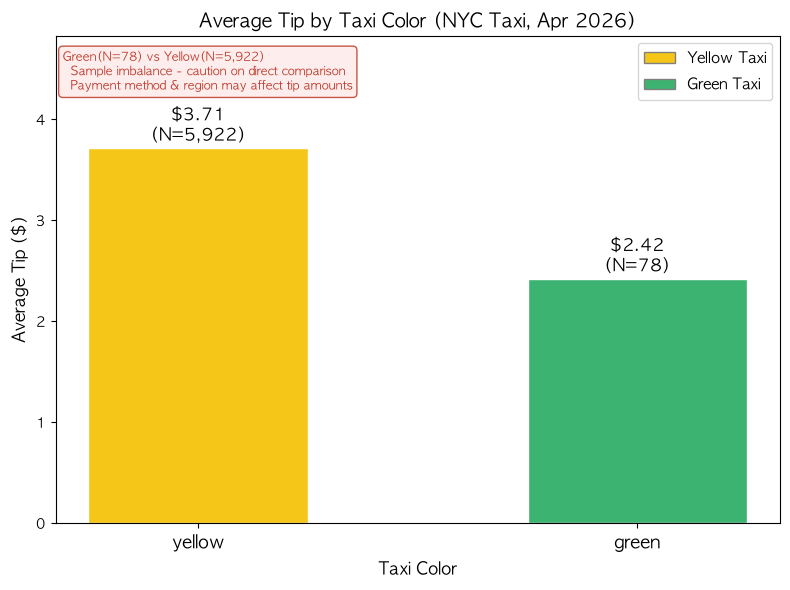
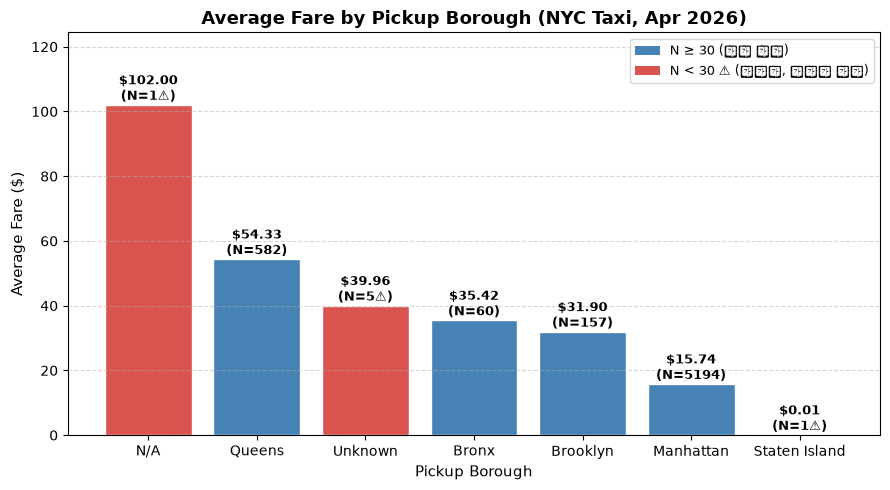
question 분리

diff --git a/chapter10/eval.py b/chapter10/eval.py
@@ -1,14 +1,21 @@
-import time
 from graph import ask
 from state import MEMORY
-from config import MAX_RETRIES
+from config import MEMORY_PATH
 
 GOLD = [
-    {"q": "전체 운행 건수는?",                         "must": "6000"},
-    {"q": "결제수단(payment)별 평균 팁 비율을 알려줘",  "must": "credit"},
-    {"q": "거리와 요금의 상관계수는?",                 "must": "0.9"},
-    {"q": "지역(pickup_borough)별 평균 요금은?",        "must": "Queens"},
-]
+    {"must": "6000", "q": "전체 운행 건수는?",
+        "q2": "데이터에 트립이 총 몇 건 있어?"}, 
+    {"must": "credit", "q": "결제수단(payment)별 평균 팁 비율을 알려줘", 
+        "q2": "카드 결제와 현금 결제 중 팁 비율이 높은 쪽은?"}, 
+    {"must": "0.9", "q": "거리와 요금의 상관계수는?", 
+        "q2": "trip_distance와 fare_amount는 얼마나 연관돼 있어?"}, 
+    {"must": "Queens", "q": "지역(pickup_borough)별 평균 요금은?", 
+        "q2": "승차 지역별로 요금 평균을 내줘"}, ]
+
+def reset_memory() -> None:
+    """외부 메모리(계층 1)를 비운다 — cold 조건을 진짜 cold로 만든다."""
+    open(MEMORY_PATH, "w", encoding="utf-8").close()   # 파일 비우기
+    MEMORY.items.clear()                               # 로드된 사본도 비우기
 
 def classify_failure(state) -> str:
     if not state.get("error"):
@@ -20,22 +27,25 @@ def classify_failure(state) -> str:
     if "timeout" in e:   return "timeout"
     return "other"
 
-def run_eval(tag: str):
+def run_eval(tag: str, key: str = "q", repeat: int = 1):
     rows = []
-    for i, c in enumerate(GOLD):
-        t0 = time.time()
-        st = ask(c["q"], thread_id=f"{tag}-{i}")
-        hit = c["must"].lower() in (st.get("answer", "") + st.get("stdout", "")).lower()
-        rows.append({"q": c["q"], "correct": hit,
-                     "code_attempts": st.get("code_attempts", 0),
-                     "first_try": st.get("code_attempts", 0) == 1 and hit,
-                     "failure": classify_failure(st)})
+    for r in range(repeat):
+        for i, c in enumerate(GOLD):
+            st = ask(c[key], thread_id=f"{tag}-{r}-{i}")
+            hit = c["must"].lower() in (st.get("answer", "") 
+                                        + st.get("stdout", "")).lower()
+            rows.append({"q": c[key], "correct": hit,
+                        "code_attempts": st.get("code_attempts", 0),
+                        "first_try": st.get("code_attempts", 0) == 1 and hit,
+                        "failure": classify_failure(st)})
     acc = sum(r["correct"] for r in rows) / len(rows)
     first = sum(r["first_try"] for r in rows) / len(rows)
     avg = sum(r["code_attempts"] for r in rows) / len(rows)
-    print(f"[{tag}] 정확도 {acc:.0%},  첫시도성공 {first:.0%},  평균 생성 {avg:.1f}회")
+    print(f"[{tag}] 정확도 {acc:.0%}, " + 
+          f"첫시도성공 {first:.0%},  평균 생성 {avg:.1f}회")
     return rows
 
 if __name__ == "__main__":
-    run_eval("cold")     # 메모리가 빈 상태
-    run_eval("warm")     # 같은 질문을 다시 — 외부 메모리가 채워져 첫 시도 성공률↑ (계층 1)
+    reset_memory()
+    cold = run_eval("cold", "q",  repeat=1)
+    warm = run_eval("warm", "q2", repeat=1)
